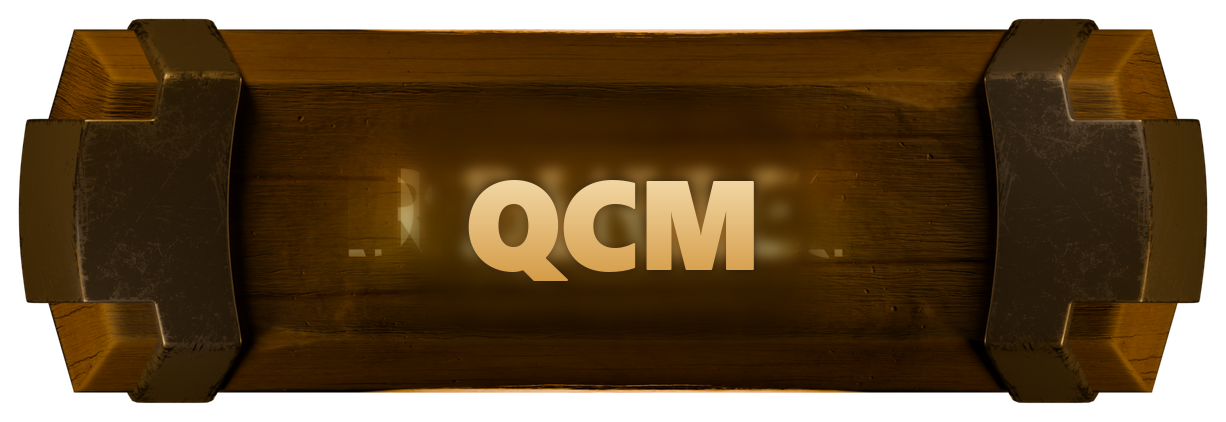
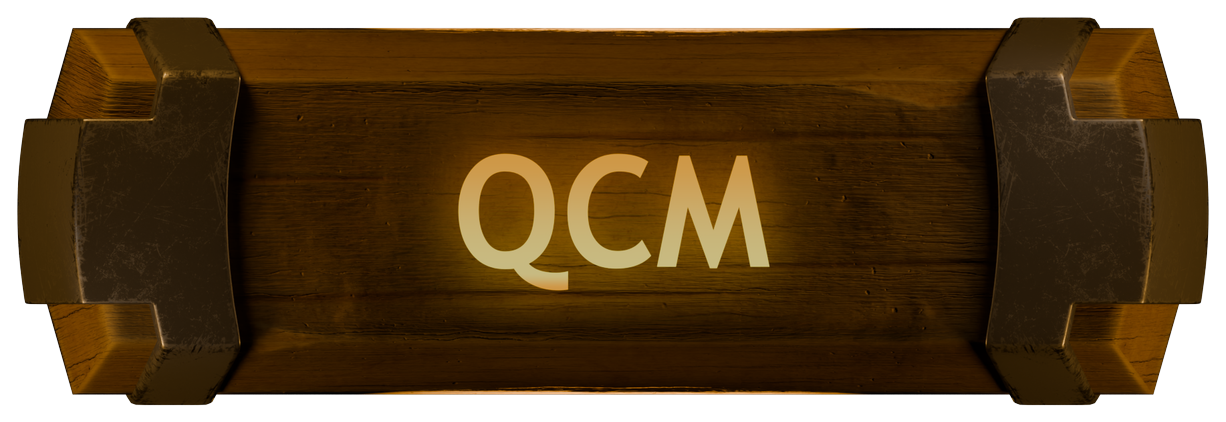
V4.2.3 : recadrage et recompression des 6 plaques de boutons
Les 6 plaques générées en V4.1.0 (QCM, Classique, Liste, Arbre Monde,
Fleuves de l'Enfer, Royaume des Morts) avaient été redéposées en 1920×1080,
16 bits, avec une grosse marge vide autour de la plaque (contre 1226×422,
8 bits, détourée au ras pour les 6 autres boutons). Comme view_primary_buttons
dérive la largeur du bouton depuis le ratio de l'image à hauteur fixe, ce
mismatch les aurait affichées nettement plus petites que les autres boutons
sur les écrans concernés (choix du quiz, quiz Lieux).

Recadrées sur la zone de contenu (identique pour les 6), redimensionnées et
replacées sur le même gabarit 1226×422 avec la marge de 16px des 6 autres,
ramenées en 8 bits : les 12 boutons sont de nouveau strictement au même
format.

diff --git a/README.md b/README.md
@@ -10,9 +10,9 @@ Three quiz modes let you test your knowledge — Classic (a clue, guess the name
 
 Two other files in this repository are worth knowing about: [CHANGELOG.md](CHANGELOG.md) tracks the full version history of the project, and [Base.md](Base.md) is a complete, always up-to-date inventory of every entity, place and artifact currently in the database, including the theme catalog used by the List quiz.
 
-### Latest addition — V4.2.2
+### Latest addition — V4.2.3
 
-Added the `assets/background/` folder (empty for now) where future background theme images belong. This follows V4.2.1, which switched background themes to load from `assets/background/<asset>.png` instead of a static drawable per theme, the same way buttons (`assets/button/`) and achievement emblems (`assets/achievements/`) already do — adding a new background theme is now just a matter of dropping in the image.
+Re-cropped and re-compressed the 6 button plaques generated in V4.1.0 (QCM, Classic, List, World Tree, Rivers of Hell, Kingdom of the Dead): a first pass had been dropped in at 1920×1080/16-bit with a large empty margin, which would have rendered them noticeably smaller than the other buttons on screen — they're now back to the shared 1226×422/8-bit frame, cropped flush to the plaque. This follows V4.2.2, which added the empty `assets/background/` folder where future background theme images belong.
 
 ### Getting started
 
@@ -51,9 +51,9 @@ Trois types de quiz permettent de tester vos connaissances — Classique (un ind
 
 Deux autres fichiers du dépôt sont utiles à connaître : [CHANGELOG.md](CHANGELOG.md) retrace l'historique complet des versions du projet, et [Base.md](Base.md) est un inventaire complet, tenu à jour, de toutes les entités, tous les lieux et tous les artéfacts actuellement dans la base, ainsi que le catalogue des thèmes utilisés par le quiz Liste.
 
-### Dernier ajout — V4.2.2
+### Dernier ajout — V4.2.3
 
-Ajout du dossier `assets/background/` (vide pour l'instant), où déposer les images des futurs thèmes de fond. Cela fait suite à la V4.2.1, qui a fait passer les thèmes de fond sur un chargement depuis `assets/background/<asset>.png` au lieu d'un drawable statique par thème, comme les boutons (`assets/button/`) et les emblèmes de succès (`assets/achievements/`) — ajouter un nouveau thème de fond ne demande désormais plus que de déposer l'image correspondante.
+Recadrage et recompression des 6 plaques générées en V4.1.0 (QCM, Classique, Liste, Arbre Monde, Fleuves de l'Enfer, Royaume des Morts) : un premier dépôt en 1920×1080/16 bits avec une grosse marge vide les aurait fait apparaître nettement plus petites que les autres boutons à l'écran ; elles reviennent au gabarit commun 1226×422/8 bits, détourées au ras de la plaque. Cela fait suite à la V4.2.2, qui a ajouté le dossier `assets/background/` (vide pour l'instant), où déposer les images des futurs thèmes de fond.
 
 ### Démarrage
 

diff --git a/CHANGELOG.md b/CHANGELOG.md
@@ -2,6 +2,10 @@
 
 ## V4
 
+#### V4.2.3
+
+- Nouvelles versions des 6 plaques générées en V4.1.0 (QCM, Classique, Liste, Arbre Monde, Fleuves de l'Enfer, Royaume des Morts) : recadrées au ras de la plaque et allégées en 8 bits (1226×422, comme les 6 autres boutons), après un premier dépôt en 1920×1080/16 bits avec une grosse marge vide qui les aurait fait apparaître nettement plus petites que les autres boutons à l'écran
+
 #### V4.2.2
 
 - Ajout du dossier `assets/background/` (vide pour l'instant, avec un `.gitkeep`), prêt à recevoir les images des futurs thèmes de fond
